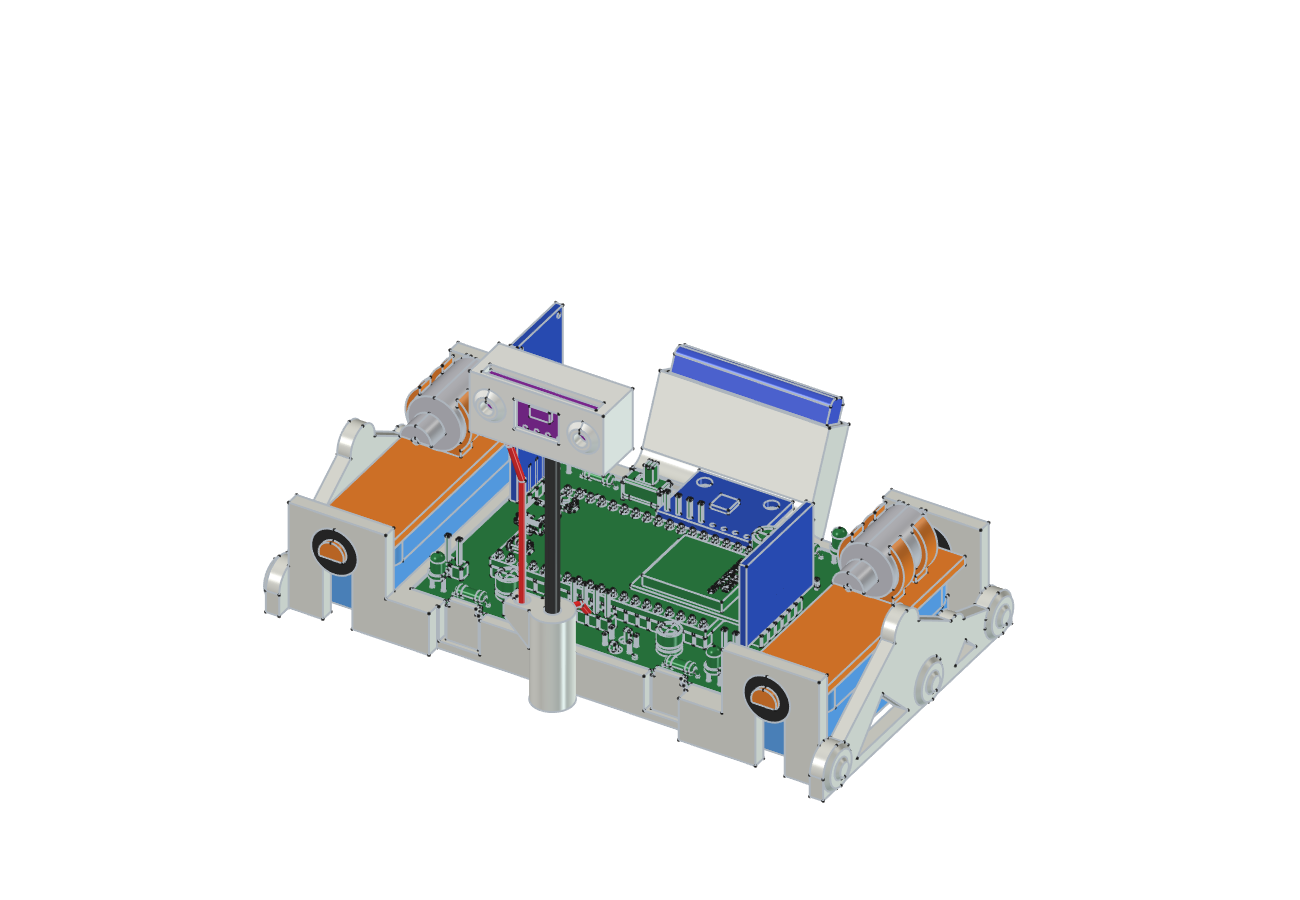
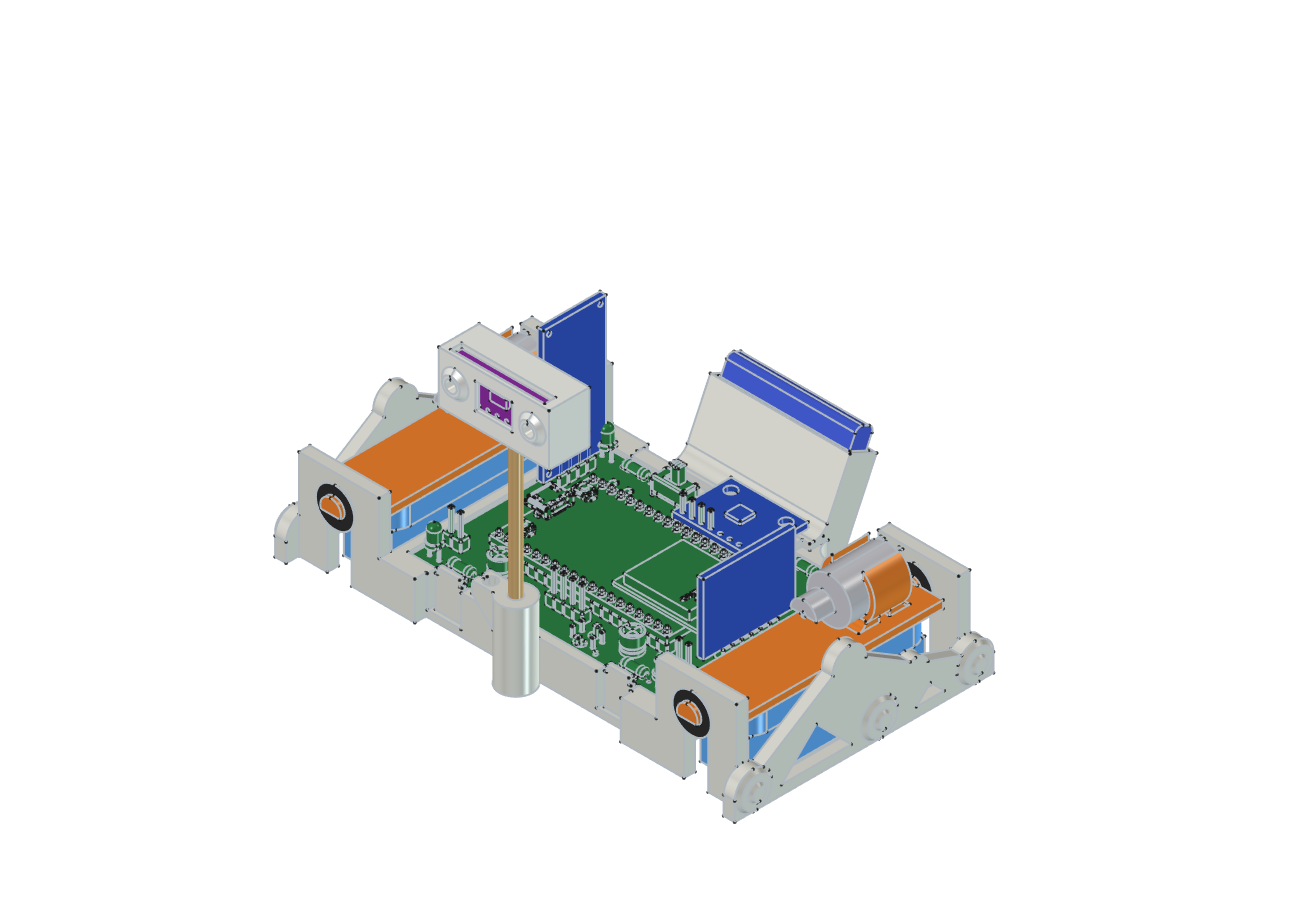
Mast ist jetzt ueberall ein Holz-Schaschlikspiess, neues Bild von vorn links
Alle sechs Doku-Stellen nachgezogen: Doku/03 (Stueckliste und Massebilanz),
Doku/04, Bauanleitung, Gehaeuse_CAD/README, Hardware/Netzliste und die
Antennen-Notizen im Projekt-Log.

Mitgerechnet statt nur umbenannt: Masse 0,6 -> 0,3 g, Preis 0,80 -> 0,05 EUR,
Mast-Zubehoer 7,10 -> 6,35 EUR, Materialpreis 33,60 -> 32,85 EUR, Gesamtmasse
~45 -> ~44 g, davon oben auf dem Mast 2 -> gut 1,5 g.

Zwei inhaltliche Folgen, nicht nur Wortlaut:
* Holz ist weicher als Kohlefaser, der Mast peitscht staerker. Fuer eine
  Laufzeitmessung, die ueber 33 ms mittelt, unkritisch -- die Begruendung
  stand in Doku/04 schon direkt unter der Werkstoffzeile.
* Holz leitet nicht. Die Warnung, eine Antenne nicht am Mast entlangzufuehren,
  ist damit hinfaellig; im Log entsprechend umgeschrieben.

Doku/bilder/gehaeuse_vorn.png mit der aktuellen Geometrie neu gerendert,
gleiche Kamera wie bisher (isometrisch von vorn links, weisser Hintergrund).
Zeigt jetzt die eine breite Motorschelle und den hellen Holzmast. Die vier
uebrigen Ansichten in Doku/11 sind noch auf dem alten Stand.

Gehaeuse_CAD/README nennt ausserdem die breite Schelle mit Kabelbinder und
die beiden Pegs im Mastkopf.

Changed region(s): [[0.1846, 0.3111, 0.8, 0.9333]]

diff --git a/00_Projekt-Log.md b/00_Projekt-Log.md
@@ -208,9 +208,10 @@ Gehäuseentwurfs oder der Doku, bis sie am echten Teil beantwortet ist.
        einen Meter höher.
     4. PETG stört kaum, solange es nicht massiv an der Antenne anliegt.
     Für den Rover: **vorn in der Mitte, Antenne nach vorn über die
-    Vorderkante**, ein Stück seitlich neben dem Mast (CFK leitet und
-    schirmt). Die USB-Buchse liegt dann zur Platinenmitte und muss von oben
-    erreichbar bleiben. Die Reichweite ist kein enger Punkt (reduzierte
+    Vorderkante**, ein Stück seitlich neben dem Mast. (Der Mast ist seit dem
+    25.10.2026 ein Holzspieß und damit elektrisch unauffällig — der
+    frühere Grund, CFK leitet und schirmt, ist weggefallen.) Die USB-Buchse
+    liegt dann zur Platinenmitte und muss von oben erreichbar bleiben. Die Reichweite ist kein enger Punkt (reduzierte
     Sendeleistung, Bedienung aus wenigen Metern); Regel 1 und 2 dürften
     reichen.
   - **Idee: externe Antenne.** Braucht ein Board mit Antennenstecker
@@ -220,8 +221,9 @@ Gehäuseentwurfs oder der Doku, bis sie am echten Teil beantwortet ist.
     Drahtstück 31 mm (λ/4 bei 2,45 GHz) — Stabantenne mit
     U.FL-auf-SMA-Kabel (3–10 g, 5–11 cm). Eine Stabantenne reicht
     elektrisch mehr als aus, ist für dieses Fahrzeug aber unnötig schwer;
-    die Folienantenne am Mastkopf wäre die leichte Lösung. **Nicht direkt
-    am CFK-Stab entlangführen** — dann lieber einen GFK-Stab als Mast.
+    die Folienantenne am Mastkopf wäre die leichte Lösung. Sie darf am Mast
+    entlanglaufen: Holz stört nicht. Mit dem früher vorgesehenen CFK-Stab
+    wäre das verboten gewesen, Kohlefaser leitet.
 
     | Bauform | Größe | Gewicht | Einordnung |
     |---|---|---|---|
@@ -312,9 +314,23 @@ und lässt den kurzen waagerechten Zapfen ohne Stütze drucken.
 **Der Mast ist kein CFK-Stab mehr, sondern ein Holz-Schaschlikspieß Ø 3.**
 Geometrisch ändert das nichts, das Loch im Mastfuß ist Ø 3,3. Im Modell heißt
 das Teil jetzt `Mast_Holz`, die Datei `Bauteile/Holzspiess_3x70.step`.
-**Noch offen:** sechs Doku-Stellen nennen weiter CFK — Doku/03 (zweimal,
-inklusive Massebilanz), Doku/04, die Bauanleitung, `Gehaeuse_CAD/README.md`,
-`Hardware/Netzliste.md` und ein älterer Eintrag hier im Log.
+Die Doku ist nachgezogen: Doku/03 (Stückliste **und** Massebilanz), Doku/04,
+die Bauanleitung, `Gehaeuse_CAD/README.md`, `Hardware/Netzliste.md` und die
+Antennen-Notizen weiter oben in diesem Log. Masse 0,6 → **0,3 g**, Preis
+0,80 → 0,05 €; die Summen sind mitgerechnet (Mast-Zubehör 7,10 → 6,35 €,
+Gesamtmasse ~45 → **~44 g**).
+
+Zwei Dinge ändern sich dadurch inhaltlich, nicht nur im Wortlaut: Holz ist
+**weicher** als Kohlefaser, der Mast peitscht also stärker — für eine
+Laufzeitmessung, die über 33 ms mittelt, unkritisch, und in Doku/04 steht
+die Begründung direkt unter der Werkstoffzeile. Und Holz **leitet nicht**:
+die alte Warnung, eine Antenne nicht am Mast entlangzuführen, ist damit
+hinfällig.
+
+Das Bild `Doku/bilder/gehaeuse_vorn.png` ist mit der neuen Geometrie neu
+gerendert — gleiche Kamera wie bisher, isometrisch von vorn links, weißer
+Hintergrund. **Die vier übrigen Ansichten** (Heck, Seite, oben, unten)
+zeigen noch den alten Stand mit zwei Motorschellen und schwarzem Mast.
 
 Alle drei Druckteile sind gültige Einzelkörper: Bodenschale 27,53 cm³,
 Bürstenträger je 2,47 cm³, Mastkopf 3,54 cm³. STEP und STL neu erzeugt, die

diff --git a/Doku/03_Stueckliste-BOM.md b/Doku/03_Stueckliste-BOM.md
@@ -244,11 +244,11 @@ nicht: MPU-6050 auf `0x68`, VL53L0X auf `0x29`.
 |---|---|---|---|---|
 | U6 | **GY-521** (MPU-6050) Breakout | 1 | 2,50 | Lagesensor. Pull-ups sind auf dem Modul. **Flach aufs Chassis**, nahe der Drehachse, möglichst weit weg von den Motoren |
 | U7 | **VL53L0X-Modul**, 25 × 10,67 mm, Lochabstand 19,3 mm | 1 | 3,50 | Gekauft: roboter-bausatz.de RBS17700. Abstandssensor, Laufzeitmessung. Kommt in den Mastkopf |
-| — | Mast: CFK-Rundstab Ø 3 mm, **70 mm** | 1 | 0,80 | 60 mm über der Platine plus 10 mm im Mastfuß. Steif und leicht. Messing- oder Alurohr geht auch, wiegt aber mehr |
+| — | Mast: **Holz-Schaschlikspieß Ø 3 mm**, auf **70 mm** abgelängt | 1 | 0,05 | 60 mm über der Platine plus 10 mm im Mastfuß. Aus der Küche, eine Packung kostet gut einen Euro. Weicher als der früher vorgesehene CFK-Stab — für den Abstandssensor unkritisch (siehe [04](04_PCB-Layout-Empfehlung.md)), dafür leichter und nicht leitend |
 | — | Litze **AWG 28–30** (0,05–0,08 mm², Silikon), 4 Stück je ca. 90 mm | 1 | 0,30 | Dünner als ursprünglich geplant, damit sie am schwingenden Mast nicht bricht und in die Kabelöse passt. Zum Sensor hinauf. **Verdrillt** und mit Schlaufe am Fuß, siehe unten |
 | — | Schaumklebeband für U6 | 1 | — | aus dem Restbestand der Akkubefestigung |
 
-**Zusammen ≈ 7,10 €**, Materialpreis steigt damit von 26,50 € auf **≈ 33,60 €**.
+**Zusammen ≈ 6,35 €**, Materialpreis steigt damit von 26,50 € auf **≈ 32,85 €**.
 
 ### Massezuwachs
 
@@ -256,12 +256,12 @@ nicht: MPU-6050 auf `0x68`, VL53L0X auf `0x29`.
 |---|---|
 | GY-521 (Stiftleisten abgeknipst, flach verlötet) | 1,8 g |
 | GY-530 auf dem Mast | 1,3 g |
-| Mast CFK 3 mm × 60 mm | 0,6 g |
+| Mast Holzspieß Ø 3 mm × 60 mm | 0,3 g |
 | Litze und Klebstoff | 0,8 g |
-| **Summe** | **≈ 4,5 g** |
+| **Summe** | **≈ 4,2 g** |
 
-Damit steigt die Gesamtmasse von ~40 g auf **~45 g** — und davon sitzen 2 g
-oben auf dem Mast. Das verschärft das in
+Damit steigt die Gesamtmasse von ~40 g auf **~44 g** — und davon sitzen gut
+1,5 g oben auf dem Mast. Das verschärft das in
 [02 §4](02_SMD-vs-THT-Wirtschaftlichkeit.md) beschriebene Hauptrisiko.
 Gegenrechnung: die dort genannte Abspeckliste (1,0-mm-PCB, 3-mm-LEDs,
 300-mAh-Zelle) holt ~6,5 g zurück.

diff --git a/Gehaeuse_CAD/README.md b/Gehaeuse_CAD/README.md
@@ -77,9 +77,11 @@ Kurz zu jedem Teil:
   Rasthaken vorn), die Akkutasche in Form des RTG am Heck, den Mastfuß vorn
   und an beiden Seiten das Fahrwerk mit den Gabeln für die Antriebe.
 - **Bürstenträger** — je einer links und rechts. Unten klebt der
-  Zahnbürstenkopf, oben klemmt der Vibrationsmotor in zwei Schellen. Die
-  beiden Zapfen an den Enden stecken in den TPU-Tüllen.
-- **Mastkopf** — sitzt oben auf dem CFK-Stab und hält den VL53L0X.
+  Zahnbürstenkopf, oben klemmt der Vibrationsmotor in einer 10 mm
+  breiten Schelle, gesichert mit einem Kabelbinder durch den Querkanal unter
+  dem Motor. Die beiden Zapfen an den Enden stecken in den TPU-Tüllen.
+- **Mastkopf** — sitzt oben auf dem Holzspieß und hält den VL53L0X. Zwei
+  kegelige Pegs greifen in die Befestigungslöcher des Moduls.
 - **Tüllen** — vier Stück aus weichem TPU. Sie sind die einzige Verbindung
   zwischen Antrieb und Gehäuse und halten die Vibration aus der Platine heraus.
 
@@ -97,7 +99,7 @@ Schicht federn.
 | Datei / Ordner | Inhalt |
 |---|---|
 | `Druckteile/` | Die Druckteile als **STL** (für den Slicer) und **STEP** (zum Weiterkonstruieren) |
-| `Bauteile/` | Einfache Modelle der Zukaufteile als STEP: Motor, MPU-6050, VL53L0X, TP4056, MT3608, Akku, Bürstenkopf, CFK-Stab |
+| `Bauteile/` | Einfache Modelle der Zukaufteile als STEP: Motor, MPU-6050, VL53L0X, TP4056, MT3608, Akku, Bürstenkopf, Holzspieß |
 | `MarsRover_Gehaeuse_V2_ohne_Bauteile.FCStd` | FreeCAD-Datei mit allen Teilen und der **nackten** Platine |
 | `build_gehaeuse.py` | Erzeugt die Druckteile. Alle Maße stehen oben als Parameter |
 | `build_bauteile.py` | Erzeugt die Zukaufteile und setzt sie an ihren Einbauort |

diff --git a/Doku/Ich_baue_meinen_Marsrover.md b/Doku/Ich_baue_meinen_Marsrover.md
@@ -37,7 +37,7 @@ zusammensetzen, zum Schluss alles verkabeln.
 - die bedrahteten Bauteile aus der [Stückliste](03_Stueckliste-BOM.md)
 - ESP32 DevKitC V4, die Module MPU-6050, VL53L0X, TP4056 und MT3608
 - 2 Vibrationsmotoren, 2 Zahnbürstenköpfe, Akku 503035
-- CFK-Rundstab Ø 3 mm, 70 mm lang
+- Holz-Schaschlikspieß Ø 3 mm, auf 70 mm abgelängt
 - 4 dünne Litzen, je etwa 9 cm (für den Sensor im Mast)
 - die Druckteile aus [Gehaeuse_CAD](../Gehaeuse_CAD/README.md): 1 Bodenschale,
   2 Bürstenträger, 1 Mastkopf, 4 Tüllen aus TPU
@@ -263,7 +263,7 @@ Der Sensor VL53L0X braucht vier Leitungen: `VIN`, `GND`, `SCL` und `SDA`.
 2. **Sensor in den Mastkopf.** Das Modul von oben in den Schlitz schieben —
    die Lötaugen nach unten, der kleine schwarze Sensor schaut nach vorn
    durch das Fenster. Die Litzen kommen unten aus dem Kabelauslass.
-3. **Mast einstecken.** Den CFK-Stab mit einem Tropfen Kleber in den Mastfuß
+3. **Mast einstecken.** Den Holzspieß mit einem Tropfen Kleber in den Mastfuß
    stecken, dann den Mastkopf oben aufsetzen. Der Kopf schaut geradeaus nach
    vorn, **nicht nach unten** — sonst misst er die Tischplatte.
 4. **Kabel führen.** Die vier Litzen leicht verdrillen und am Mast entlang

diff --git a/Doku/04_PCB-Layout-Empfehlung.md b/Doku/04_PCB-Layout-Empfehlung.md
@@ -197,7 +197,7 @@ Drei Regeln, und alle drei sind auf diesem Roboter nicht optional:
 | Masthöhe | ca. 60 mm über der Platine |
 | Position | vorn mittig, zwischen den beiden Liniensensoren |
 | Blickrichtung | **waagerecht nach vorn** |
-| Werkstoff | CFK-Rundstab Ø 3 mm — steif und mit 0,6 g fast masselos |
+| Werkstoff | **Holz-Schaschlikspieß Ø 3 mm** — mit 0,3 g fast masselos. Weicher als der früher vorgesehene CFK-Stab, er peitscht also stärker; warum das hier nichts ausmacht, steht direkt darunter |
 
 **Warum der Mast hier funktioniert, ein Magnetometer dort aber nicht:** Eine
 optische Laufzeitmessung mittelt über ihr Messfenster von 33 ms. Ein

diff --git a/Hardware/Netzliste.md b/Hardware/Netzliste.md
@@ -169,7 +169,7 @@ nacheinander aufgeweckt und umadressiert werden.
 
 | | |
 |---|---|
-| Werkstoff | CFK-Rundstab Ø 3 mm |
+| Werkstoff | Holz-Schaschlikspieß Ø 3 mm |
 | Länge | ca. 60 mm über der Platine |
 | Position | vorn mittig, zwischen den beiden TCRT5000 |
 | Blickrichtung | waagerecht nach vorn, **nicht** zum Boden geneigt |
